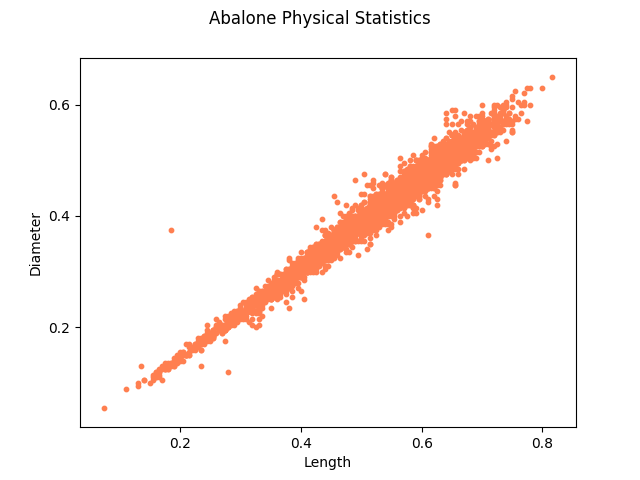
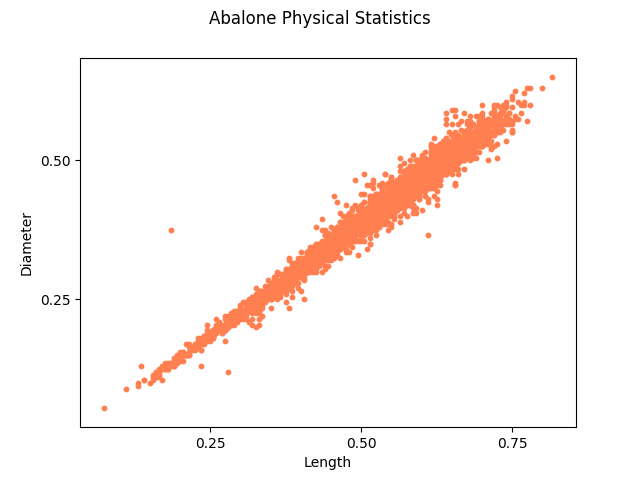
next test week 9

diff --git a/DSSA5001/Week9/plotter.py b/DSSA5001/Week9/plotter.py
@@ -24,7 +24,7 @@ print(min(diameter))
 
 ax.scatter(length, diameter, s=10, c='coral')
 fig.suptitle("Abalone Physical Statistics")
-plt.rc('font', size=20)
+plt.rc('font', size=200)
 plt.xlabel("Length");
 plt.ylabel("Diameter");
 #ax.set_xlabel('Length')
